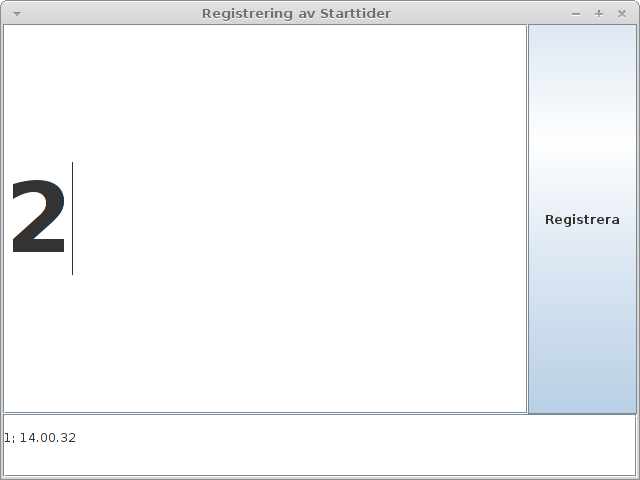
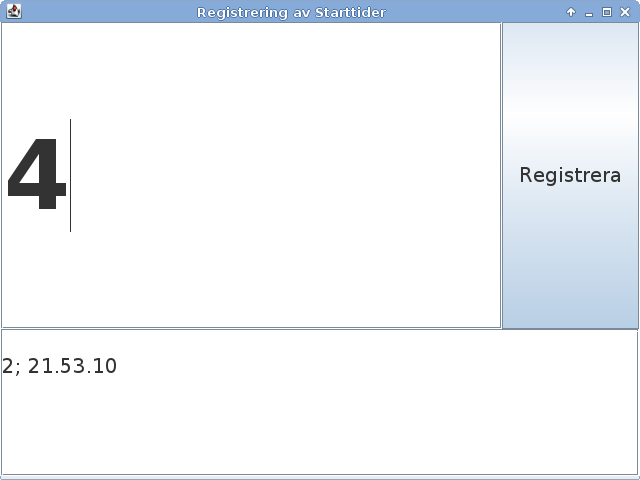
Uppdaterat manualen. Även nya fina bilder.

Changed region(s): [[0.0, 0.0, 1.0, 1.0]]

diff --git a/doc/manual.html b/doc/manual.html
@@ -63,36 +63,39 @@
 <body>
 	<h1>Installation</h1>
 	<div>
-		<p>Om hur programmet installeras och konfigureras</p>
-		<h2>Förkrav</h2>
+		<h2>Systemkrav</h2>
 		<ul>
 			<li>En dator</li>
 			<li>Java Runtime</li>
 		</ul>
 		<h2>Formatering av filer</h2>
 		<p>Filerna är formaterade som CSV med semikolon som separator. Exempel på en fil med deltagare:</p>
-		<pre>1; Anders Andersson
-	2; Bengt Bengtsson</pre>
+		<pre>
+StartNo; Namn
+1; Anders Andersson
+2; Bengt Bengtsson
+</pre>
 	</div>
 	<h1>Registrering</h1>
 	<div>
-		<p>Registreringsprogrammet används för att registrera deltagares start- och måltider. Tiderna lagras i separata filer (starttider.txt respektive maltider.txt) i hemkatalogen för senare bearbetning.</p>
+		<p>Registreringsprogrammet används för att registrera deltagares start- och måltider. Tiderna lagras i separata filer (<code>start.txt</code> respektive <code>finish.txt</code>) i hemkatalogen för senare bearbetning.</p>
 		<h2>Starta programmet</h2>
-		<p>Dubbelklicka på programfilen (EnduroRegister.jar). Ett fönster visas som låter användaren välja programläge.</p>
-		<h2>Välja programläge</h2>
-		<p>När programmet startas så öppnas ett fönster med tre alternativ. Välj det alternativ som ska användas. Vid registrering av start- och måltider ändras programmets gränssnitt för att visa ett fönster där startnummer kan matas in. För att byta läge; starta om programmet.</p>
+		<p>Dubbelklicka på programfilen (<code>EnduroRegister.jar</code>). Ett fönster visas som låter användaren välja mellan att registrera start- eller måltider.</p>
+		<p>När ett av alternativen väljs ändras programmets gränssnitt till att ett som låter användaren mata in tider och startnummer. Detta beskrivs nedan. För att byta läge måste programmet startas om.</p>
 		<img src="bilder/setupframe.png" />
-		<h3>Masstart</h3>
-		<p>Alternativet masstart ber användaren bekräfta starten. När man klickar på "Ja" börjar tiden räknas. Därefter registreras aktuell tid för alla deltagare i en fil och programmet stängs ner. Information om deltagarnanam lagras i filen namnfil.txt i hemkatalogen. <b>En fil med deltagare måste finnas och heta namnfil.txt och ligga i hemkatalogen.</b> Detta eftersom startnumren läses därifrån.</p>
-		<img src="bilder/masstart.png" />
-		<h2>Gränssnittets utseende och layout</h2>
-		<p>Gränssnittet består av ett fält för att mata in ett startnummer och en knapp för att registrera tiden. Underst i fönstret visas ett statusfält med information om de senast sparade tiderna.</p>
+		<h2>Registrering av tider</h2>
+		<p>Gränssnittet består av ett fält för att mata in startnummer och en knapp för att registrera tiden. Underst i fönstret visas ett statusfält med information om de senast sparade tiderna. Gränssnittet fungerar likadant för att registrera start- och måltider.</p>
 		<figure>
 			<img src="bilder/starttider.png" />
-			<figcaption><p><i>Deltagare 1 har registrerats med tid 14:00:32. Deltagare 2 håller på att registreras.</i></p></figcaption>
+			<figcaption><p><i>Deltagare 2 har registrerats vid tidpunkten 21.53.10. Deltagare 4 håller på att registreras.</i></p></figcaption>
 		</figure>
-		<h2>Registrera tid</h2>
-		<p>Fyll i förarens startnummer i fältet och tryck på "registrera", även enter-tangenten kan användas. Det ser likadant ut oavsett läge. Den registrerade tiden syns i det nedre fältet. </p>
+		<p>Fyll i förarens startnummer i fältet och välj Registrera. Även enter-tangenten kan användas. Den registrerade tiden syns i det nedre fältet.</p>
+		<p>Flera startnummer kan anges separerade med kommatecken, eller som ett intervall (ex. 1-5). Alla dessa kommer då att registreras vid samma tidpunkt.</p>
+		<p>Om användaren klickar på Registrera utan att ange ett startnummer så stoppas klockan och programmet frågar sedan efter ett startnummer. Detta kan utnyttjas för att registrera målgången av en förare med oläsligt startnummer.</p>
+		<figure>
+		  <img src="bilder/start-sen.png" />
+		  <figcaption><p><i>Deltagare 2 och 4 har registrerats. Systemet väntar på ett nytt startnummer som kommer att registreras med tidpunkten 21.53.26.</i></p></figcaption>
+		</figure>
 		<h2>Spara tider</h2>
 		<p>Tiderna sparas kontinuerligt under programmets användning och behöver inte sparas manuellt.</p>
 		<h2>Avsluta programmet</h2>
@@ -100,12 +103,33 @@
 	</div>
 	<h1>Sortering av resultat</h1>
 	<div>
-		<p>Sortering av resultatet görs av ett separat program. Resultatet sparas i filen result.txt i hemkatalogen.</p>
+		<p>Sortering av resultatet görs av ett separat program. Resultatet sparas sorterat efter både startnummer och placering i separata filer som anges i konfigurationen, se nedan.</p>
 		<h2>Starta programmet</h2>
-		<p>Dubbelklicka på programfilen (EnduroSorter.jar). Programmet frågar efter antalet varv i tävlingen. Därefter beräknas och sparas resultatet och sorteringsprogrammet avslutas.</p>
+		<p>Dubbelklicka på programfilen (<code>EnduroSorter.jar</code>). Sorteringsprogrammet är inte interaktivt och avslutas direkt med ett meddelande om sorteringen lyckades eller inte. Alla inställningar görs i konfigurationsfilen som beskrivs närmare under Konfiguration nedan.
 		<h2>Resultat</h2>
-		<p>Programmet läser in start- och måltider från filerna starttider.txt och maltider.txt. Baserat på informationen i dessa och antalet varv inmatade av användaren beräknas total- och varvtider och sparas i resultatfilen. Om en totaltid inte kan beräknas för att antingen start- eller måltid saknas skrivs istället --.--.-- ut.</p>
-		<p>Om en starttid eller sluttid saknas så skrivs istället "Start?" respektive "Slut?" ut. Då flera start- eller måltider registrerats så skrivs en notering ut tillsammans med alla överflödiga registeringar på formen "Flera starttider? 12.12.00 12.13.30". En totaltid kortare än 15 minuter anses vara orimlig och "Omöjlig Totaltid?" skrivs då ut.</p>
+		<p>Programmet läser in start- och måltider och namn från filer som angivits i konfigurationen. Om en totaltid inte kan beräknas för att antingen start- eller måltid saknas skrivs istället --.--.-- ut.</p>
+		<p>Om en starttid eller sluttid saknas så skrivs istället <code>Start?</code> respektive <code>Slut?</code> ut. Då flera start- eller måltider registrerats så skrivs en notering ut tillsammans med alla överflödiga registeringar på formen <code>Flera starttider? 12.12.00 12.13.30</code>. Om en totaltid anses vara orimlig skrivs <code>Omöjlig Totaltid?</code> ut.</p>
+		<h2>Konfiguration</h2>
+		<p>Sorteringsprogrammet konfigureras med hjälp av filen <code>sorter.cfg</code> placerad i hemkatalogen. Filen består av ett antal tilldelningssatser, en per rad, där en inställning tilldelas ett värde. Ett exempel som tilldelar NumberOfLaps värdet 1:
+		  <pre>NumberOfLaps=1</pre>
+Rader som inleds med ett brädgårdstecken (#) betraktas som kommentarer och ignoreras av sorteringsprogrammet. Alla filnamn anges relativt från användarens hemkatalog.
+		  <h3>Inställningsvärden</h3>
+		  <dl>
+		    <dt>Namefile</dt>
+		    <dd>Fil som innehåller deltagares namn och startnummer</dd>
+		    <dt>StartFiles</dt>
+		    <dd>Lista över filer med starttider, separerade av mellanslag (TODO: kolla).</dd>
+		    <dt>FinishFiles</dt>
+		    <dd>Lista över filer med måltider, separerade av mellanslag (TODO: kolla).</dd>
+		    <dt>ResultFile</dt>
+		    <dd>Fil att skriva startnummerordnade resultat till.</dd>
+		    <dt>SortedResultFile</dt>
+		    <dd>Fil att skriva placeringsordnade resultat till.</dd>
+		    <dt>NumberOfLaps</dt>
+		    <dd>Antal varv att skriva ut i resultatfilen då varvlopp körs.</dd>
+		    <dt>TimeStartIsOpen</dt>
+		    <dd>Lägsta tillåtna totaltiden då varvlopp körs. Deltagare med lägre totaltid får ingen placering vid sorteringen.</dd>
+		  </dl>
 	</div>
 </body>
 </html>
